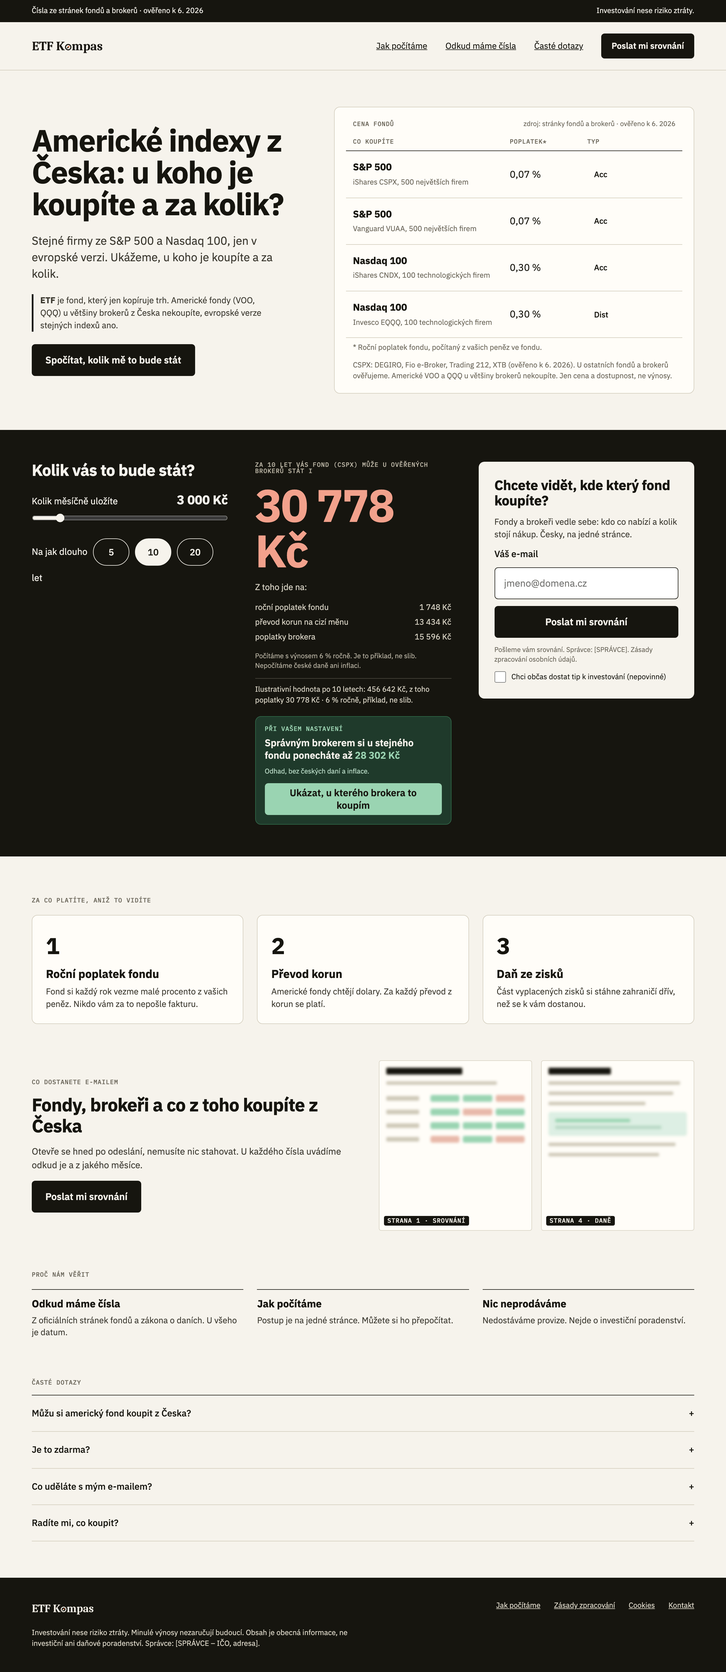
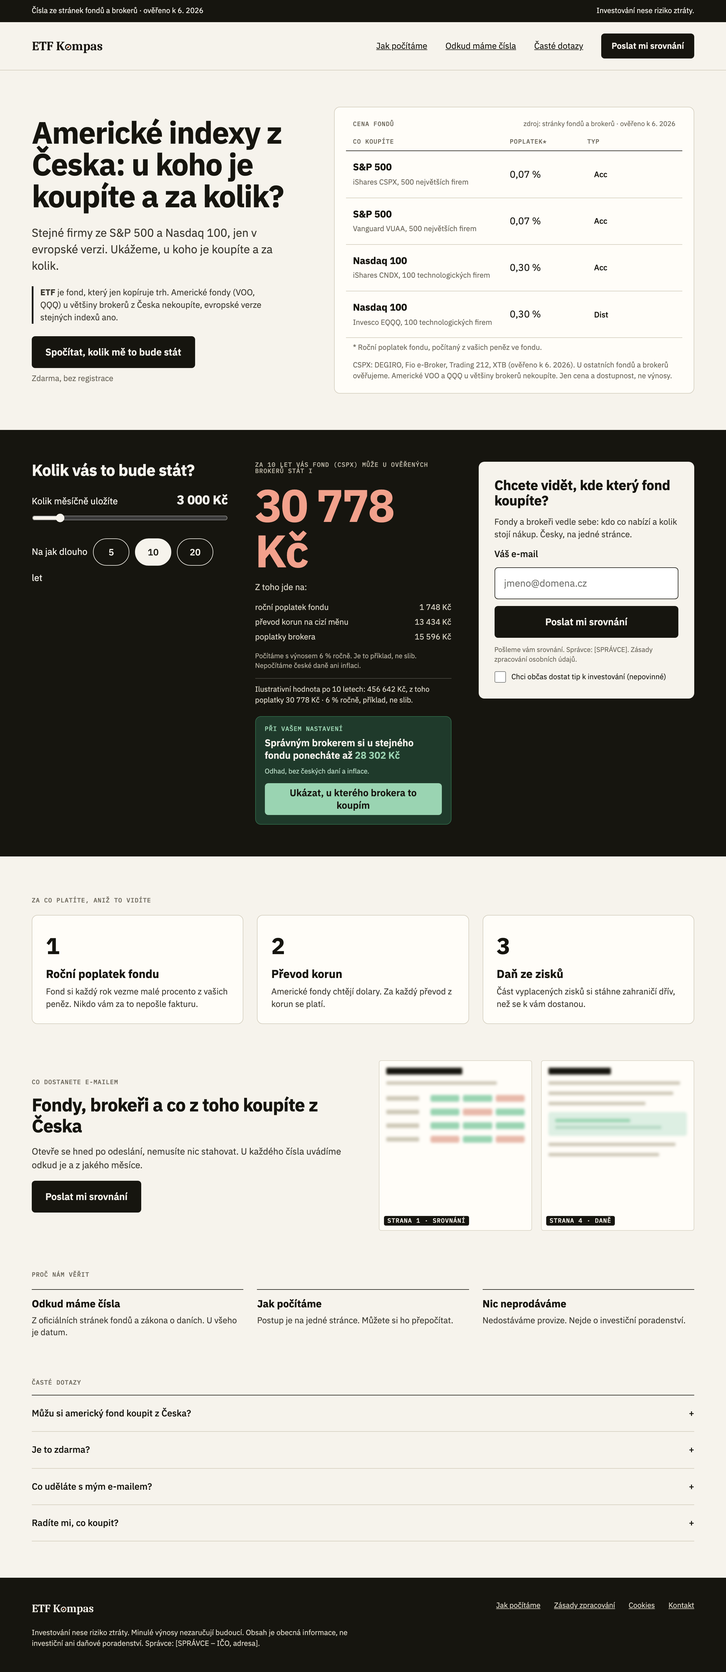
feat: say "Zdarma, bez registrace" under the hero button (#67)
## What
A muted line "Zdarma, bez registrace" under the hero button (option A of
the mockup David chose): centred on a phone, left-aligned on desktop, 14
px (`--font-size-sm`; the mockup's 13 px is not a token). Added before
the 5-second test. The design boards, four PNGs and `wireframe-b.md`
show the same line.

## Checks
Tests first. `pnpm check` (521 tests), `pnpm format:check`, 127 e2e; the
hero still fits 375x667 with the line (the button ends at 597 px, the
line below it). JS unchanged (146.7 KB). No new dependency; the colour
pair is already in `contrast-pairs.ts`.

## For David
The new copy goes on the copy review list. A short decision note needs
your reason.

🤖 Generated with [Claude Code](https://claude.com/claude-code)

---------

Changed region(s): [[0.0312, 0.0625, 0.4062, 0.25]]

diff --git a/docs/design/wireframes/etf-kompas-board.html b/docs/design/wireframes/etf-kompas-board.html
@@ -103,7 +103,7 @@ a{color:#16150F}
 &lt;h1 style=&quot;font-size:54px;line-height:1.04;letter-spacing:-.025em;font-weight:700&quot;&gt;Americké indexy z Česka: u koho je koupíte a za kolik?&lt;/h1&gt;
 &lt;p style=&quot;font-size:20px;color:#3A372E&quot;&gt;Stejné firmy ze S&amp;amp;P 500 a Nasdaq 100, jen v evropské verzi. Ukážeme, u koho je koupíte a za kolik.&lt;/p&gt;
 &lt;p style=&quot;font-size:15px;color:#3A372E;border-left:3px solid #16150F;padding-left:12px;max-width:28em&quot;&gt;&lt;strong&gt;ETF&lt;/strong&gt; je fond, který jen kopíruje trh. Americké fondy (VOO, QQQ) u většiny brokerů z Česka nekoupíte, evropské verze stejných indexů ano.&lt;/p&gt;
-&lt;div style=&quot;display:flex;gap:16px;align-items:center;flex-wrap:wrap&quot;&gt;&lt;a class=&quot;btn&quot; href=&quot;#calc&quot;&gt;Spočítat, kolik mě to bude stát&lt;/a&gt;&lt;/div&gt;
+&lt;div style=&quot;display:flex;flex-direction:column;gap:8px;align-items:flex-start&quot;&gt;&lt;a class=&quot;btn&quot; href=&quot;#calc&quot;&gt;Spočítat, kolik mě to bude stát&lt;/a&gt;&lt;p style=&quot;font-size:14px;color:#6B665A&quot;&gt;Zdarma, bez registrace&lt;/p&gt;&lt;/div&gt;
 &lt;/div&gt;
 &lt;div class=&quot;card hc&quot; style=&quot;padding:16px 20px&quot;&gt;
 &lt;div style=&quot;display:flex;justify-content:space-between;align-items:baseline;padding:4px 12px 8px&quot;&gt;&lt;span class=&quot;tag&quot;&gt;Cena fondů&lt;/span&gt;&lt;span style=&quot;font-size:12px;color:#6B665A&quot;&gt;zdroj: stránky fondů a brokerů · ověřeno k 6. 2026&lt;/span&gt;&lt;/div&gt;
@@ -248,7 +248,7 @@ a{color:#16150F}
 &lt;div class=&quot;row&quot;&gt;&lt;span&gt;&lt;strong&gt;S&amp;amp;P 500&lt;/strong&gt;&lt;br&gt;&lt;span style=&quot;font-size:12px;color:#6B665A&quot;&gt;iShares CSPX, 500 největších firem&lt;/span&gt;&lt;/span&gt;&lt;span class=&quot;num&quot;&gt;0,07 %&lt;/span&gt;&lt;span class=&quot;pill&quot;&gt;Acc&lt;/span&gt;&lt;/div&gt;&lt;div class=&quot;row&quot;&gt;&lt;span&gt;&lt;strong&gt;S&amp;amp;P 500&lt;/strong&gt;&lt;br&gt;&lt;span style=&quot;font-size:12px;color:#6B665A&quot;&gt;Vanguard VUAA, 500 největších firem&lt;/span&gt;&lt;/span&gt;&lt;span class=&quot;num&quot;&gt;0,07 %&lt;/span&gt;&lt;span class=&quot;pill&quot;&gt;Acc&lt;/span&gt;&lt;/div&gt;&lt;div class=&quot;row&quot;&gt;&lt;span&gt;&lt;strong&gt;Nasdaq 100&lt;/strong&gt;&lt;br&gt;&lt;span style=&quot;font-size:12px;color:#6B665A&quot;&gt;iShares CNDX, 100 technologických firem&lt;/span&gt;&lt;/span&gt;&lt;span class=&quot;num&quot;&gt;0,30 %&lt;/span&gt;&lt;span class=&quot;pill&quot;&gt;Acc&lt;/span&gt;&lt;/div&gt;&lt;div class=&quot;row&quot;&gt;&lt;span&gt;&lt;strong&gt;Nasdaq 100&lt;/strong&gt;&lt;br&gt;&lt;span style=&quot;font-size:12px;color:#6B665A&quot;&gt;Invesco EQQQ, 100 technologických firem&lt;/span&gt;&lt;/span&gt;&lt;span class=&quot;num&quot;&gt;0,30 %&lt;/span&gt;&lt;span class=&quot;pill&quot;&gt;Dist&lt;/span&gt;&lt;/div&gt;
 &lt;/div&gt;
 &lt;p style=&quot;font-size:12px;color:#6B665A&quot;&gt;* Roční poplatek fondu, počítaný z vašich peněz ve fondu.&lt;/p&gt;
-&lt;a class=&quot;btn&quot; href=&quot;#calc&quot;&gt;Spočítat, kolik mě to bude stát&lt;/a&gt;
+&lt;a class=&quot;btn&quot; href=&quot;#calc&quot;&gt;Spočítat, kolik mě to bude stát&lt;/a&gt;&lt;p style=&quot;font-size:14px;color:#6B665A;text-align:center;margin-top:-6px&quot;&gt;Zdarma, bez registrace&lt;/p&gt;
 &lt;p style=&quot;font-size:12px;color:#6B665A;text-align:center&quot;&gt;CSPX: DEGIRO, Fio e-Broker, Trading 212, XTB (ověřeno k 6. 2026). U ostatních fondů a brokerů ověřujeme. Americké VOO a QQQ u většiny brokerů nekoupíte. Jen cena a dostupnost, ne výnosy.&lt;/p&gt;
 &lt;/section&gt;
 
@@ -1640,7 +1640,7 @@ a{color:#16150F}
 &lt;h1 style=&quot;font-size:54px;line-height:1.04;letter-spacing:-.025em;font-weight:700&quot;&gt;U stejného fondu můžete zbytečně zaplatit až &lt;span style=&quot;color:#C23A1B&quot;&gt;28 302 Kč&lt;/span&gt;. Kde?&lt;/h1&gt;
 &lt;p style=&quot;font-size:20px;color:#3A372E&quot;&gt;Stejné firmy ze S&amp;amp;P 500 a Nasdaq 100, jen v evropské verzi. Ukážeme, u koho je koupíte a za kolik.&lt;/p&gt;
 &lt;p style=&quot;font-size:15px;color:#3A372E;border-left:3px solid #16150F;padding-left:12px;max-width:28em&quot;&gt;&lt;strong&gt;ETF&lt;/strong&gt; je fond, který jen kopíruje trh. Americké fondy (VOO, QQQ) u většiny brokerů z Česka nekoupíte, evropské verze stejných indexů ano.&lt;/p&gt;
-&lt;div style=&quot;display:flex;gap:16px;align-items:center;flex-wrap:wrap&quot;&gt;&lt;a class=&quot;btn&quot; href=&quot;#calc&quot;&gt;Spočítat, kolik mě to bude stát&lt;/a&gt;&lt;/div&gt;
+&lt;div style=&quot;display:flex;flex-direction:column;gap:8px;align-items:flex-start&quot;&gt;&lt;a class=&quot;btn&quot; href=&quot;#calc&quot;&gt;Spočítat, kolik mě to bude stát&lt;/a&gt;&lt;p style=&quot;font-size:14px;color:#6B665A&quot;&gt;Zdarma, bez registrace&lt;/p&gt;&lt;/div&gt;
 &lt;/div&gt;
 &lt;div class=&quot;card hc&quot; style=&quot;padding:16px 20px&quot;&gt;
 &lt;div style=&quot;display:flex;justify-content:space-between;align-items:baseline;padding:4px 12px 8px&quot;&gt;&lt;span class=&quot;tag&quot;&gt;Cena fondů&lt;/span&gt;&lt;span style=&quot;font-size:12px;color:#6B665A&quot;&gt;zdroj: stránky fondů a brokerů · ověřeno k 6. 2026&lt;/span&gt;&lt;/div&gt;
@@ -1785,7 +1785,7 @@ a{color:#16150F}
 &lt;div class=&quot;row&quot;&gt;&lt;span&gt;&lt;strong&gt;S&amp;amp;P 500&lt;/strong&gt;&lt;br&gt;&lt;span style=&quot;font-size:12px;color:#6B665A&quot;&gt;iShares CSPX, 500 největších firem&lt;/span&gt;&lt;/span&gt;&lt;span class=&quot;num&quot;&gt;0,07 %&lt;/span&gt;&lt;span class=&quot;pill&quot;&gt;Acc&lt;/span&gt;&lt;/div&gt;&lt;div class=&quot;row&quot;&gt;&lt;span&gt;&lt;strong&gt;S&amp;amp;P 500&lt;/strong&gt;&lt;br&gt;&lt;span style=&quot;font-size:12px;color:#6B665A&quot;&gt;Vanguard VUAA, 500 největších firem&lt;/span&gt;&lt;/span&gt;&lt;span class=&quot;num&quot;&gt;0,07 %&lt;/span&gt;&lt;span class=&quot;pill&quot;&gt;Acc&lt;/span&gt;&lt;/div&gt;&lt;div class=&quot;row&quot;&gt;&lt;span&gt;&lt;strong&gt;Nasdaq 100&lt;/strong&gt;&lt;br&gt;&lt;span style=&quot;font-size:12px;color:#6B665A&quot;&gt;iShares CNDX, 100 technologických firem&lt;/span&gt;&lt;/span&gt;&lt;span class=&quot;num&quot;&gt;0,30 %&lt;/span&gt;&lt;span class=&quot;pill&quot;&gt;Acc&lt;/span&gt;&lt;/div&gt;&lt;div class=&quot;row&quot;&gt;&lt;span&gt;&lt;strong&gt;Nasdaq 100&lt;/strong&gt;&lt;br&gt;&lt;span style=&quot;font-size:12px;color:#6B665A&quot;&gt;Invesco EQQQ, 100 technologických firem&lt;/span&gt;&lt;/span&gt;&lt;span class=&quot;num&quot;&gt;0,30 %&lt;/span&gt;&lt;span class=&quot;pill&quot;&gt;Dist&lt;/span&gt;&lt;/div&gt;
 &lt;/div&gt;
 &lt;p style=&quot;font-size:12px;color:#6B665A&quot;&gt;* Roční poplatek fondu, počítaný z vašich peněz ve fondu.&lt;/p&gt;
-&lt;a class=&quot;btn&quot; href=&quot;#calc&quot;&gt;Spočítat, kolik mě to bude stát&lt;/a&gt;
+&lt;a class=&quot;btn&quot; href=&quot;#calc&quot;&gt;Spočítat, kolik mě to bude stát&lt;/a&gt;&lt;p style=&quot;font-size:14px;color:#6B665A;text-align:center;margin-top:-6px&quot;&gt;Zdarma, bez registrace&lt;/p&gt;
 &lt;p style=&quot;font-size:12px;color:#6B665A;text-align:center&quot;&gt;CSPX: DEGIRO, Fio e-Broker, Trading 212, XTB (ověřeno k 6. 2026). U ostatních fondů a brokerů ověřujeme. Americké VOO a QQQ u většiny brokerů nekoupíte. Jen cena a dostupnost, ne výnosy. Částka v nadpisu: 3 000 Kč měsíčně, 10 let, odhad bez českých daní a inflace.&lt;/p&gt;
 &lt;/section&gt;
 

diff --git a/docs/design/wireframes/etf-kompas-design-study.html b/docs/design/wireframes/etf-kompas-design-study.html
@@ -234,7 +234,7 @@ a{color:#16150F}
 &lt;h1 style=&quot;font-size:54px;line-height:1.04;letter-spacing:-.025em;font-weight:700&quot;&gt;Americké indexy z Česka: u koho je koupíte a za kolik?&lt;/h1&gt;
 &lt;p style=&quot;font-size:20px;color:#3A372E&quot;&gt;Stejné firmy ze S&amp;amp;P 500 a Nasdaq 100, jen v evropské verzi. Ukážeme, u koho je koupíte a za kolik.&lt;/p&gt;
 &lt;p style=&quot;font-size:15px;color:#3A372E;border-left:3px solid #16150F;padding-left:12px;max-width:28em&quot;&gt;&lt;strong&gt;ETF&lt;/strong&gt; je fond, který jen kopíruje trh. Americké fondy (VOO, QQQ) u většiny brokerů z Česka nekoupíte, evropské verze stejných indexů ano.&lt;/p&gt;
-&lt;div style=&quot;display:flex;gap:16px;align-items:center;flex-wrap:wrap&quot;&gt;&lt;a class=&quot;btn&quot; href=&quot;#calc&quot;&gt;Spočítat, kolik mě to bude stát&lt;/a&gt;&lt;/div&gt;
+&lt;div style=&quot;display:flex;flex-direction:column;gap:8px;align-items:flex-start&quot;&gt;&lt;a class=&quot;btn&quot; href=&quot;#calc&quot;&gt;Spočítat, kolik mě to bude stát&lt;/a&gt;&lt;p style=&quot;font-size:14px;color:#6B665A&quot;&gt;Zdarma, bez registrace&lt;/p&gt;&lt;/div&gt;
 &lt;/div&gt;
 &lt;div class=&quot;card hc&quot; style=&quot;padding:16px 20px&quot;&gt;
 &lt;div style=&quot;display:flex;justify-content:space-between;align-items:baseline;padding:4px 12px 8px&quot;&gt;&lt;span class=&quot;tag&quot;&gt;Cena fondů&lt;/span&gt;&lt;span style=&quot;font-size:12px;color:#6B665A&quot;&gt;zdroj: stránky fondů a brokerů · ověřeno k 6. 2026&lt;/span&gt;&lt;/div&gt;
@@ -379,7 +379,7 @@ a{color:#16150F}
 &lt;div class=&quot;row&quot;&gt;&lt;span&gt;&lt;strong&gt;S&amp;amp;P 500&lt;/strong&gt;&lt;br&gt;&lt;span style=&quot;font-size:12px;color:#6B665A&quot;&gt;iShares CSPX, 500 největších firem&lt;/span&gt;&lt;/span&gt;&lt;span class=&quot;num&quot;&gt;0,07 %&lt;/span&gt;&lt;span class=&quot;pill&quot;&gt;Acc&lt;/span&gt;&lt;/div&gt;&lt;div class=&quot;row&quot;&gt;&lt;span&gt;&lt;strong&gt;S&amp;amp;P 500&lt;/strong&gt;&lt;br&gt;&lt;span style=&quot;font-size:12px;color:#6B665A&quot;&gt;Vanguard VUAA, 500 největších firem&lt;/span&gt;&lt;/span&gt;&lt;span class=&quot;num&quot;&gt;0,07 %&lt;/span&gt;&lt;span class=&quot;pill&quot;&gt;Acc&lt;/span&gt;&lt;/div&gt;&lt;div class=&quot;row&quot;&gt;&lt;span&gt;&lt;strong&gt;Nasdaq 100&lt;/strong&gt;&lt;br&gt;&lt;span style=&quot;font-size:12px;color:#6B665A&quot;&gt;iShares CNDX, 100 technologických firem&lt;/span&gt;&lt;/span&gt;&lt;span class=&quot;num&quot;&gt;0,30 %&lt;/span&gt;&lt;span class=&quot;pill&quot;&gt;Acc&lt;/span&gt;&lt;/div&gt;&lt;div class=&quot;row&quot;&gt;&lt;span&gt;&lt;strong&gt;Nasdaq 100&lt;/strong&gt;&lt;br&gt;&lt;span style=&quot;font-size:12px;color:#6B665A&quot;&gt;Invesco EQQQ, 100 technologických firem&lt;/span&gt;&lt;/span&gt;&lt;span class=&quot;num&quot;&gt;0,30 %&lt;/span&gt;&lt;span class=&quot;pill&quot;&gt;Dist&lt;/span&gt;&lt;/div&gt;
 &lt;/div&gt;
 &lt;p style=&quot;font-size:12px;color:#6B665A&quot;&gt;* Roční poplatek fondu, počítaný z vašich peněz ve fondu.&lt;/p&gt;
-&lt;a class=&quot;btn&quot; href=&quot;#calc&quot;&gt;Spočítat, kolik mě to bude stát&lt;/a&gt;
+&lt;a class=&quot;btn&quot; href=&quot;#calc&quot;&gt;Spočítat, kolik mě to bude stát&lt;/a&gt;&lt;p style=&quot;font-size:14px;color:#6B665A;text-align:center;margin-top:-6px&quot;&gt;Zdarma, bez registrace&lt;/p&gt;
 &lt;p style=&quot;font-size:12px;color:#6B665A;text-align:center&quot;&gt;CSPX: DEGIRO, Fio e-Broker, Trading 212, XTB (ověřeno k 6. 2026). U ostatních fondů a brokerů ověřujeme. Americké VOO a QQQ u většiny brokerů nekoupíte. Jen cena a dostupnost, ne výnosy.&lt;/p&gt;
 &lt;/section&gt;
 
@@ -524,7 +524,7 @@ a{color:#16150F}
 &lt;h1 style=&quot;font-size:54px;line-height:1.04;letter-spacing:-.025em;font-weight:700&quot;&gt;U stejného fondu můžete zbytečně zaplatit až &lt;span style=&quot;color:#C23A1B&quot;&gt;28 302 Kč&lt;/span&gt;. Kde?&lt;/h1&gt;
 &lt;p style=&quot;font-size:20px;color:#3A372E&quot;&gt;Stejné firmy ze S&amp;amp;P 500 a Nasdaq 100, jen v evropské verzi. Ukážeme, u koho je koupíte a za kolik.&lt;/p&gt;
 &lt;p style=&quot;font-size:15px;color:#3A372E;border-left:3px solid #16150F;padding-left:12px;max-width:28em&quot;&gt;&lt;strong&gt;ETF&lt;/strong&gt; je fond, který jen kopíruje trh. Americké fondy (VOO, QQQ) u většiny brokerů z Česka nekoupíte, evropské verze stejných indexů ano.&lt;/p&gt;
-&lt;div style=&quot;display:flex;gap:16px;align-items:center;flex-wrap:wrap&quot;&gt;&lt;a class=&quot;btn&quot; href=&quot;#calc&quot;&gt;Spočítat, kolik mě to bude stát&lt;/a&gt;&lt;/div&gt;
+&lt;div style=&quot;display:flex;flex-direction:column;gap:8px;align-items:flex-start&quot;&gt;&lt;a class=&quot;btn&quot; href=&quot;#calc&quot;&gt;Spočítat, kolik mě to bude stát&lt;/a&gt;&lt;p style=&quot;font-size:14px;color:#6B665A&quot;&gt;Zdarma, bez registrace&lt;/p&gt;&lt;/div&gt;
 &lt;/div&gt;
 &lt;div class=&quot;card hc&quot; style=&quot;padding:16px 20px&quot;&gt;
 &lt;div style=&quot;display:flex;justify-content:space-between;align-items:baseline;padding:4px 12px 8px&quot;&gt;&lt;span class=&quot;tag&quot;&gt;Cena fondů&lt;/span&gt;&lt;span style=&quot;font-size:12px;color:#6B665A&quot;&gt;zdroj: stránky fondů a brokerů · ověřeno k 6. 2026&lt;/span&gt;&lt;/div&gt;
@@ -669,7 +669,7 @@ a{color:#16150F}
 &lt;div class=&quot;row&quot;&gt;&lt;span&gt;&lt;strong&gt;S&amp;amp;P 500&lt;/strong&gt;&lt;br&gt;&lt;span style=&quot;font-size:12px;color:#6B665A&quot;&gt;iShares CSPX, 500 největších firem&lt;/span&gt;&lt;/span&gt;&lt;span class=&quot;num&quot;&gt;0,07 %&lt;/span&gt;&lt;span class=&quot;pill&quot;&gt;Acc&lt;/span&gt;&lt;/div&gt;&lt;div class=&quot;row&quot;&gt;&lt;span&gt;&lt;strong&gt;S&amp;amp;P 500&lt;/strong&gt;&lt;br&gt;&lt;span style=&quot;font-size:12px;color:#6B665A&quot;&gt;Vanguard VUAA, 500 největších firem&lt;/span&gt;&lt;/span&gt;&lt;span class=&quot;num&quot;&gt;0,07 %&lt;/span&gt;&lt;span class=&quot;pill&quot;&gt;Acc&lt;/span&gt;&lt;/div&gt;&lt;div class=&quot;row&quot;&gt;&lt;span&gt;&lt;strong&gt;Nasdaq 100&lt;/strong&gt;&lt;br&gt;&lt;span style=&quot;font-size:12px;color:#6B665A&quot;&gt;iShares CNDX, 100 technologických firem&lt;/span&gt;&lt;/span&gt;&lt;span class=&quot;num&quot;&gt;0,30 %&lt;/span&gt;&lt;span class=&quot;pill&quot;&gt;Acc&lt;/span&gt;&lt;/div&gt;&lt;div class=&quot;row&quot;&gt;&lt;span&gt;&lt;strong&gt;Nasdaq 100&lt;/strong&gt;&lt;br&gt;&lt;span style=&quot;font-size:12px;color:#6B665A&quot;&gt;Invesco EQQQ, 100 technologických firem&lt;/span&gt;&lt;/span&gt;&lt;span class=&quot;num&quot;&gt;0,30 %&lt;/span&gt;&lt;span class=&quot;pill&quot;&gt;Dist&lt;/span&gt;&lt;/div&gt;
 &lt;/div&gt;
 &lt;p style=&quot;font-size:12px;color:#6B665A&quot;&gt;* Roční poplatek fondu, počítaný z vašich peněz ve fondu.&lt;/p&gt;
-&lt;a class=&quot;btn&quot; href=&quot;#calc&quot;&gt;Spočítat, kolik mě to bude stát&lt;/a&gt;
+&lt;a class=&quot;btn&quot; href=&quot;#calc&quot;&gt;Spočítat, kolik mě to bude stát&lt;/a&gt;&lt;p style=&quot;font-size:14px;color:#6B665A;text-align:center;margin-top:-6px&quot;&gt;Zdarma, bez registrace&lt;/p&gt;
 &lt;p style=&quot;font-size:12px;color:#6B665A;text-align:center&quot;&gt;CSPX: DEGIRO, Fio e-Broker, Trading 212, XTB (ověřeno k 6. 2026). U ostatních fondů a brokerů ověřujeme. Americké VOO a QQQ u většiny brokerů nekoupíte. Jen cena a dostupnost, ne výnosy. Částka v nadpisu: 3 000 Kč měsíčně, 10 let, odhad bez českých daní a inflace.&lt;/p&gt;
 &lt;/section&gt;
 

diff --git a/docs/design/wireframes/artboards-v4/vb02hero-m.html b/docs/design/wireframes/artboards-v4/vb02hero-m.html
@@ -343,7 +343,7 @@ a{color:#16150F}
 <div class="row"><span><strong>S&amp;P 500</strong><br><span style="font-size:12px;color:#6B665A">iShares CSPX, 500 největších firem</span></span><span class="num">0,07 %</span><span class="pill">Acc</span></div><div class="row"><span><strong>S&amp;P 500</strong><br><span style="font-size:12px;color:#6B665A">Vanguard VUAA, 500 největších firem</span></span><span class="num">0,07 %</span><span class="pill">Acc</span></div><div class="row"><span><strong>Nasdaq 100</strong><br><span style="font-size:12px;color:#6B665A">iShares CNDX, 100 technologických firem</span></span><span class="num">0,30 %</span><span class="pill">Acc</span></div><div class="row"><span><strong>Nasdaq 100</strong><br><span style="font-size:12px;color:#6B665A">Invesco EQQQ, 100 technologických firem</span></span><span class="num">0,30 %</span><span class="pill">Dist</span></div>
 </div>
 <p style="font-size:12px;color:#6B665A">* Roční poplatek fondu, počítaný z vašich peněz ve fondu.</p>
-<a class="btn" href="#calc">Spočítat, kolik mě to bude stát</a>
+<a class="btn" href="#calc">Spočítat, kolik mě to bude stát</a><p style="font-size:14px;color:#6B665A;text-align:center;margin-top:-6px">Zdarma, bez registrace</p>
 <p style="font-size:12px;color:#6B665A;text-align:center">CSPX: DEGIRO, Fio e-Broker, Trading 212, XTB (ověřeno k 6. 2026). U ostatních fondů a brokerů ověřujeme. Americké VOO a QQQ u většiny brokerů nekoupíte. Jen cena a dostupnost, ne výnosy. Částka v nadpisu: 3 000 Kč měsíčně, 10 let, odhad bez českých daní a inflace.</p>
 </section>
 

diff --git a/docs/design/wireframes/artboards-v4/ad67ec35.html b/docs/design/wireframes/artboards-v4/ad67ec35.html
@@ -343,7 +343,7 @@ a{color:#16150F}
 <div class="row"><span><strong>S&amp;P 500</strong><br><span style="font-size:12px;color:#6B665A">iShares CSPX, 500 největších firem</span></span><span class="num">0,07 %</span><span class="pill">Acc</span></div><div class="row"><span><strong>S&amp;P 500</strong><br><span style="font-size:12px;color:#6B665A">Vanguard VUAA, 500 největších firem</span></span><span class="num">0,07 %</span><span class="pill">Acc</span></div><div class="row"><span><strong>Nasdaq 100</strong><br><span style="font-size:12px;color:#6B665A">iShares CNDX, 100 technologických firem</span></span><span class="num">0,30 %</span><span class="pill">Acc</span></div><div class="row"><span><strong>Nasdaq 100</strong><br><span style="font-size:12px;color:#6B665A">Invesco EQQQ, 100 technologických firem</span></span><span class="num">0,30 %</span><span class="pill">Dist</span></div>
 </div>
 <p style="font-size:12px;color:#6B665A">* Roční poplatek fondu, počítaný z vašich peněz ve fondu.</p>
-<a class="btn" href="#calc">Spočítat, kolik mě to bude stát</a>
+<a class="btn" href="#calc">Spočítat, kolik mě to bude stát</a><p style="font-size:14px;color:#6B665A;text-align:center;margin-top:-6px">Zdarma, bez registrace</p>
 <p style="font-size:12px;color:#6B665A;text-align:center">CSPX: DEGIRO, Fio e-Broker, Trading 212, XTB (ověřeno k 6. 2026). U ostatních fondů a brokerů ověřujeme. Americké VOO a QQQ u většiny brokerů nekoupíte. Jen cena a dostupnost, ne výnosy.</p>
 </section>
 

diff --git a/docs/design/wireframes/artboards-v4/vb01hero-d.html b/docs/design/wireframes/artboards-v4/vb01hero-d.html
@@ -350,7 +350,7 @@ a{color:#16150F}
 <h1 style="font-size:54px;line-height:1.04;letter-spacing:-.025em;font-weight:700">U stejného fondu můžete zbytečně zaplatit až <span style="color:#C23A1B">28 302 Kč</span>. Kde?</h1>
 <p style="font-size:20px;color:#3A372E">Stejné firmy ze S&amp;P 500 a Nasdaq 100, jen v evropské verzi. Ukážeme, u koho je koupíte a za kolik.</p>
 <p style="font-size:15px;color:#3A372E;border-left:3px solid #16150F;padding-left:12px;max-width:28em"><strong>ETF</strong> je fond, který jen kopíruje trh. Americké fondy (VOO, QQQ) u většiny brokerů z Česka nekoupíte, evropské verze stejných indexů ano.</p>
-<div style="display:flex;gap:16px;align-items:center;flex-wrap:wrap"><a class="btn" href="#calc">Spočítat, kolik mě to bude stát</a></div>
+<div style="display:flex;flex-direction:column;gap:8px;align-items:flex-start"><a class="btn" href="#calc">Spočítat, kolik mě to bude stát</a><p style="font-size:14px;color:#6B665A">Zdarma, bez registrace</p></div>
 </div>
 <div class="card hc" style="padding:16px 20px">
 <div style="display:flex;justify-content:space-between;align-items:baseline;padding:4px 12px 8px"><span class="tag">Cena fondů</span><span style="font-size:12px;color:#6B665A">zdroj: stránky fondů a brokerů · ověřeno k 6. 2026</span></div>

diff --git a/docs/design/wireframes/artboards-v4/a8f21cef.html b/docs/design/wireframes/artboards-v4/a8f21cef.html
@@ -350,7 +350,7 @@ a{color:#16150F}
 <h1 style="font-size:54px;line-height:1.04;letter-spacing:-.025em;font-weight:700">Americké indexy z Česka: u koho je koupíte a za kolik?</h1>
 <p style="font-size:20px;color:#3A372E">Stejné firmy ze S&amp;P 500 a Nasdaq 100, jen v evropské verzi. Ukážeme, u koho je koupíte a za kolik.</p>
 <p style="font-size:15px;color:#3A372E;border-left:3px solid #16150F;padding-left:12px;max-width:28em"><strong>ETF</strong> je fond, který jen kopíruje trh. Americké fondy (VOO, QQQ) u většiny brokerů z Česka nekoupíte, evropské verze stejných indexů ano.</p>
-<div style="display:flex;gap:16px;align-items:center;flex-wrap:wrap"><a class="btn" href="#calc">Spočítat, kolik mě to bude stát</a></div>
+<div style="display:flex;flex-direction:column;gap:8px;align-items:flex-start"><a class="btn" href="#calc">Spočítat, kolik mě to bude stát</a><p style="font-size:14px;color:#6B665A">Zdarma, bez registrace</p></div>
 </div>
 <div class="card hc" style="padding:16px 20px">
 <div style="display:flex;justify-content:space-between;align-items:baseline;padding:4px 12px 8px"><span class="tag">Cena fondů</span><span style="font-size:12px;color:#6B665A">zdroj: stránky fondů a brokerů · ověřeno k 6. 2026</span></div>

diff --git a/src/components/HeroB/HeroB.test.tsx b/src/components/HeroB/HeroB.test.tsx
@@ -214,6 +214,20 @@ describe('HeroB', () => {
     )
   })
 
+  it('says "Zdarma, bez registrace" right after the button, outside it', () => {
+    render(<HeroB twins={twins} note={note()} dataAsOf={null} />)
+    const line = screen.getByText('Zdarma, bez registrace')
+    const button = screen.getByRole('link', {
+      name: 'Spočítat, kolik mě to bude stát',
+    })
+    expect(button.contains(line)).toBe(false)
+    expect(
+      button.compareDocumentPosition(line) & Node.DOCUMENT_POSITION_FOLLOWING,
+    ).toBeTruthy()
+    // the button keeps its own label, so the link name is not changed by the line
+    expect(button.textContent).toBe('Spočítat, kolik mě to bude stát')
+  })
+
   it('has no link "nebo rovnou srovnání brokerů" under the button', () => {
     render(<HeroB twins={twins} note={note()} dataAsOf={null} />)
     expect(

diff --git a/e2e/design-rev6.spec.ts b/e2e/design-rev6.spec.ts
@@ -74,6 +74,20 @@ test.describe('saving box button', () => {
   })
 })
 
+test.describe('"Zdarma, bez registrace" under the hero button', () => {
+  test('is muted text, centred under the button on a phone and left-aligned on desktop @smoke', async ({
+    page,
+    isMobile,
+  }) => {
+    await page.goto('/')
+    const line = page.getByText('Zdarma, bez registrace')
+    await expect(line).toBeVisible()
+    await expect(line).toHaveCSS('color', 'rgb(107, 102, 90)')
+    await expect(line).toHaveCSS('font-size', '14px')
+    await expect(line).toHaveCSS('text-align', isMobile ? 'center' : 'start')
+  })
+})
+
 test.describe('hero b headline', () => {
   test('has the amount in the red for light backgrounds, the rest in ink', async ({
     page,

diff --git a/e2e/hero-fit.spec.ts b/e2e/hero-fit.spec.ts
@@ -18,6 +18,11 @@ for (const path of ['/', '/?v=a', '/?v=b']) {
     const box = await button.boundingBox()
     expect(box).not.toBeNull()
     expect(box!.y + box!.height).toBeLessThanOrEqual(667)
+    // the reassurance under the button is in view too, and under the button
+    const line = await page.getByText('Zdarma, bez registrace').boundingBox()
+    expect(line).not.toBeNull()
+    expect(line!.y).toBeGreaterThanOrEqual(box!.y + box!.height)
+    expect(line!.y + line!.height).toBeLessThanOrEqual(667)
     // nothing wider than the screen
     const scrollWidth = await page.evaluate(
       () => document.documentElement.scrollWidth,

diff --git a/src/content/copy.ts b/src/content/copy.ts
@@ -45,6 +45,8 @@ export const heroCopy = {
   },
   lead: 'Stejné firmy ze S&P 500 a Nasdaq 100, jen v evropské verzi. Ukážeme, u koho je koupíte a za kolik.',
   cta: 'Spočítat, kolik mě to bude stát',
+  // Under the button: no account, no price (decided 2026-10-13, before the 5-second test).
+  ctaNote: 'Zdarma, bez registrace',
   // The one use of "ETF" on the page (SPEC §25 rule 2).
   // The second sentence is shown only when the data supports it.
   callout: {

diff --git a/src/components/Landing/Landing.test.tsx b/src/components/Landing/Landing.test.tsx
@@ -109,6 +109,11 @@ describe.each(['a', 'b'] as const)(
       }
     })
 
+    it('says "Zdarma, bez registrace" once, under the hero button', () => {
+      render(<Landing variant={variant} dataAsOf={null} calculator={data} />)
+      expect(screen.getAllByText('Zdarma, bez registrace')).toHaveLength(1)
+    })
+
     it('has nothing left of the calculator-first hero', () => {
       render(<Landing variant={variant} dataAsOf={null} calculator={data} />)
       expect(

diff --git a/src/components/HeroB/HeroB.tsx b/src/components/HeroB/HeroB.tsx
@@ -104,6 +104,7 @@ export function HeroB({
             <ButtonLink href="#spocitat" fullWidth>
               {nbsp(text.cta)}
             </ButtonLink>
+            <p className={styles.ctaNote}>{nbsp(text.ctaNote)}</p>
           </div>
           {note ? (
             <p className={styles.footnote} data-testid="hero-note">
